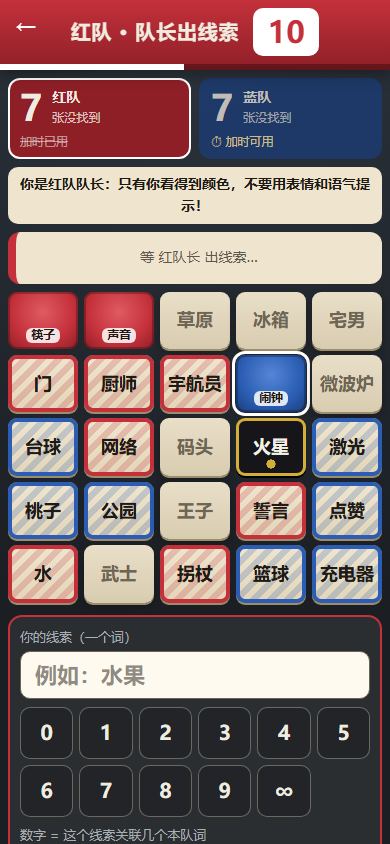
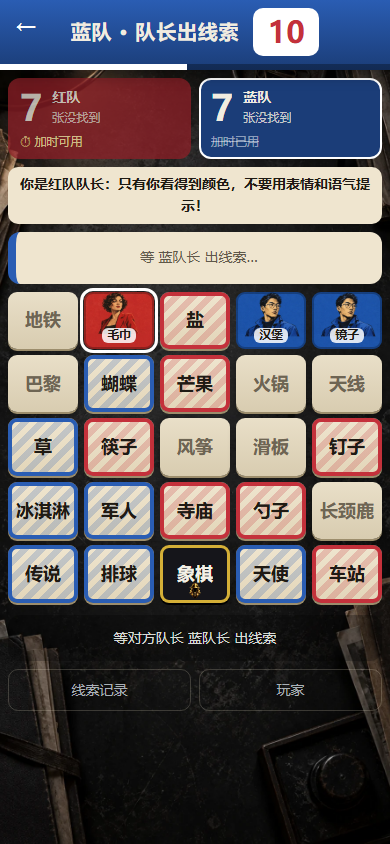
行动代号：接入八张原创档案美术并补测长线索与超时

diff --git a/scripts/verify-cn-browsers.ts b/scripts/verify-cn-browsers.ts
@@ -48,10 +48,11 @@ async function privacy() {
 }
 async function clue(n: string) {
   const t = await status(); const p = await captain(t);
-  await p.getByTestId("cn-clue-input").fill("联络暗语");
+  await p.getByTestId("cn-clue-input").fill("联络暗语星辰晨光山川远航");
   await click(p, "cn-num-" + n); await click(p, "cn-send-clue");
   await (await operative(t)).getByTestId("cn-reveal").waitFor();
   await (await operative(t)).locator(".cn-flash").waitFor();
+  assert.ok(await (await operative(t)).evaluate(() => document.documentElement.scrollWidth <= innerWidth), "Long clue overflows");
   return t;
 }
 async function reveal(team: string, role: string) {
@@ -101,7 +102,7 @@ try {
   assert.equal(await pages[1].getByTestId("cn-role").innerText(), before);
   let t = await clue("1"); const op = await operative(t);
   assert.ok(await op.getByTestId("cn-end-turn").isDisabled());
-  await shot(op, "clue-flash");
+  await shot(op, "guessing");
   await click(op, "cn-extra"); await click(op, "cn-extra");
   await wait(async () => await op.getByTestId("cn-extra").isDisabled());
   await reveal(t, t); await reveal(t, t);
@@ -115,7 +116,11 @@ try {
   await pages[0].locator(".cn-timer.hurry").waitFor({ timeout: 22000 });
   await shot(pages[0], "last-ten-seconds");
   await wait(async () => (await status()) !== timed, 16000);
-  t = await clue("inf"); await privacy(); await reveal(t, "assassin");
+  t = await clue("inf"); await privacy(); await reveal(t, "neutral");
+  await wait(async () => (await status()) !== t);
+  t = await clue("inf");
+  await wait(async () => (await status()) !== t, 34000);
+  t = await clue("inf"); await reveal(t, "assassin");
   for (const p of pages) await p.getByTestId("cn-result").waitFor();
   await shot(pages[1], "result"); await click(pages[0], "cn-next");
   await pages[0].getByTestId("cn-mode-random").waitFor(); await click(pages[0], "cn-mode-random");

diff --git a/scripts/verify-mobile-interfaces.ts b/scripts/verify-mobile-interfaces.ts
@@ -7,6 +7,7 @@ const samples = JSON.parse(
   readFileSync("apps/web/test/scenarios.generated.json", "utf8"),
 );
 const browser = await chromium.launch();
+const base = process.env.DBD_TEST_BASE_URL ?? "http://127.0.0.1:5173";
 const results: any[] = [];
 mkdirSync("output/mobile-implementation/interfaces", { recursive: true });
 try {
@@ -27,7 +28,7 @@ try {
   const errors: string[] = [];
   p.on("pageerror", (e) => errors.push(String(e)));
   for (const sample of samples) {
-    await p.goto("http://127.0.0.1:5173/test/interface.html?case=" + sample.id);
+    await p.goto(base + "/test/interface.html?case=" + sample.id);
     await p.getByTestId("mobile-dock").waitFor();
     const taps: string[] = [];
     if (

diff --git a/apps/web/src/cn/cn.css b/apps/web/src/cn/cn.css
@@ -21,6 +21,7 @@
   min-height: 100vh;
   min-height: 100dvh;
   background:
+    linear-gradient(rgba(0, 0, 0, 0.4), rgba(0, 0, 0, 0.4)),
     url("/assets/codenames/desk.webp") center / cover fixed,
     radial-gradient(circle at 50% -10%, #2f3740, var(--cn-desk) 65%);
   background-color: var(--cn-desk);

diff --git a/apps/web/public/assets/codenames/README.md b/apps/web/public/assets/codenames/README.md
@@ -1,0 +1,30 @@
+# 行动代号原创素材（2026-10-21）
+
+使用内置 imagegen 生成，Pillow 仅作缩放、裁切与 WebP 压缩。未取用官方素材。
+用户本次另行允许为朋友私人游玩使用官方美术；本套原创已经生成，因此继续使用。
+
+|文件|尺寸|字节|
+|---|---|---|
+|agent-red.webp|400×330|13172|
+|agent-blue.webp|400×330|14738|
+|bystander.webp|400×330|28894|
+|assassin.webp|400×330|7144|
+|card-paper.webp|400×330|4150|
+|desk.webp|1080×1920|154224|
+|lobby-cover.webp|1600×880|104462|
+|icon-assassin.webp|64×64，透明|2592|
+
+每种人物一个版本，没有待接入的轮换变体。
+
+## 提示词
+
+所有提示词前缀：`Use case: illustration-story. Asset type: original web boardgame bitmap asset.`
+
+- agent-red: Original editorial spy dossier illustration, one woman field agent with short curly hair and red jacket, centered upper 65 percent, muted vermilion #c4313b background, subtle kraft paper printmaking texture, lower quarter mostly empty solid red. Landscape 400:330 composition. No text, lettering, logos, weapons, no resemblance to Codenames official illustrations or packaging.
+- agent-blue: Original editorial spy dossier illustration, one East Asian male field analyst with round glasses and cobalt blue jacket, centered upper 65 percent, cobalt #2a5db3 background, subtle kraft paper printmaking texture, lower quarter mostly empty solid blue. Landscape 400:330 composition. No text, lettering, logos, weapons, no resemblance to Codenames official illustrations or packaging.
+- bystander: Original editorial dossier illustration, older female civilian florist holding a small plant, centered upper 65 percent, muted beige background, kraft paper printmaking texture, lower quarter empty beige. Landscape 400:330 composition. No text, logos, no resemblance to Codenames illustrations.
+- assassin: Original noir dossier illustration, anonymous person in a high collared black coat, face completely in shadow, upper center, near black charcoal background and restrained gold rim light, screenprint paper texture, lower quarter empty dark. Landscape 400:330 composition. No text, logos, weapons, no resemblance to Codenames official illustrations.
+- card-paper: Flat seamless very pale warm ivory kraft paper texture for Chinese word cards, extremely subtle fiber, uniform low contrast, no creases, objects, borders, stains, text, shadows or markings. Landscape 400:330.
+- desk: Top down very dark charcoal office desk with archival folders barely visible at edges, very dim neutral light, subtle grain, center empty, portrait 1080:1920. Low contrast background behind a word game. No text logos letters or bright colors.
+- lobby-cover: Original cinematic editorial illustration for a Chinese spy word association board game, wide 1600:880 composition: deep charcoal archival desk, kraft dossier folders and blank word cards, red #c4313b and blue #2a5db3 translucent tabs, black shadow profile and brass paper clips, restrained screenprint texture, center with generous dark space. No text letters numbers logos or official Codenames imagery or packaging.
+- icon-assassin: Single simple gold noir high collar silhouette emblem, face featureless dark void, bold readable tiny icon, centered isolated on genuinely transparent background, square, no text letters logos borders.
